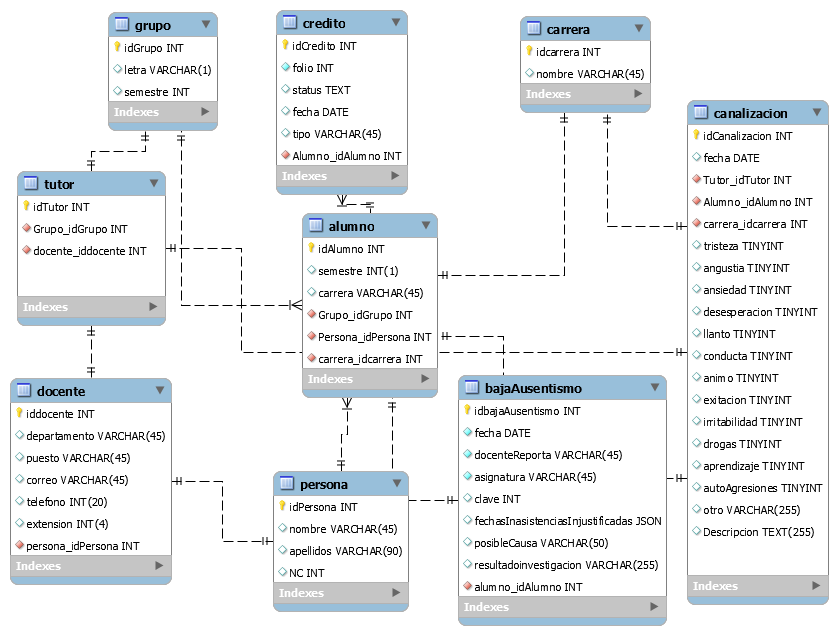
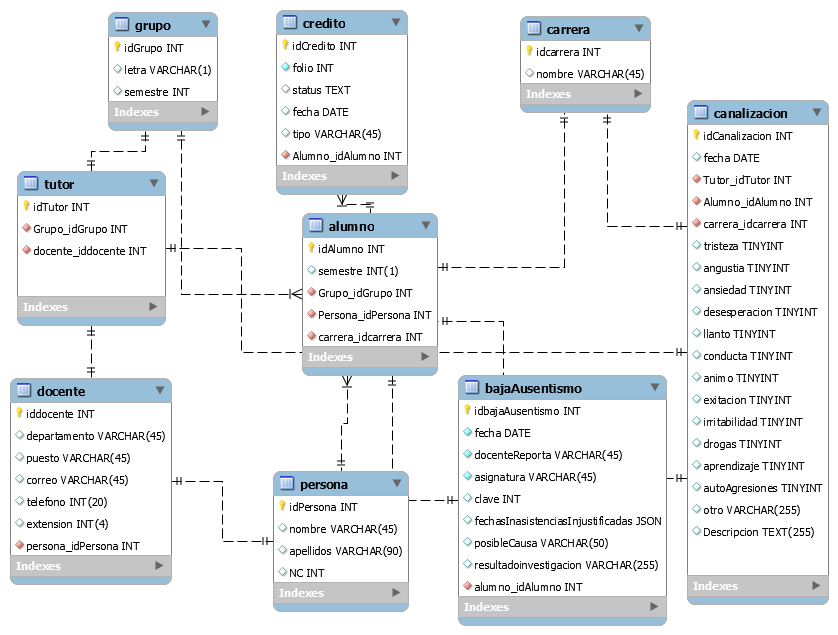
Se volvió a arreglar redundancia en BD

Changed region(s): [[0.3413, 0.4488, 0.5585, 0.6583], [0.5274, 0.4189, 0.5585, 0.4488]]

diff --git a/src/main/java/VO_Y_DAO/VO/AlumnoVO.java b/src/main/java/VO_Y_DAO/VO/AlumnoVO.java
@@ -3,7 +3,6 @@ package VO_Y_DAO.VO;
 public class AlumnoVO {
     private int idAlumno;
     private int semestre;
-    private String carrera;
     private int Grupo_id_grupo;
     private int Persona_idPersona;
     private int carrera_idcarrera;
@@ -11,10 +10,9 @@ public class AlumnoVO {
     public AlumnoVO() {
     }
 
-    public AlumnoVO(int idAlumno, int semestre, String carrera, int Grupo_id_grupo, int Persona_idPersona, int carrera_idcarrera) {
+    public AlumnoVO(int idAlumno, int semestre, int Grupo_id_grupo, int Persona_idPersona, int carrera_idcarrera) {
         this.idAlumno = idAlumno;
         this.semestre = semestre;
-        this.carrera = carrera;
         this.Grupo_id_grupo = Grupo_id_grupo;
         this.Persona_idPersona = Persona_idPersona;
         this.carrera_idcarrera = carrera_idcarrera;
@@ -34,14 +32,6 @@ public class AlumnoVO {
 
     public void setSemestre(int semestre) {
         this.semestre = semestre;
-    }
-
-    public String getCarrera() {
-        return carrera;
-    }
-
-    public void setCarrera(String carrera) {
-        this.carrera = carrera;
     }
 
     public int getGrupo_id_grupo() {
@@ -70,8 +60,7 @@ public class AlumnoVO {
 
     @Override
     public String toString() {
-        return "AlumnoVO{" + "idAlumno=" + idAlumno + ", semestre=" + semestre + ", carrera=" + carrera + ", Grupo_id_grupo=" + Grupo_id_grupo + ", Persona_idPersona=" + Persona_idPersona + ", carrera_idcarrera=" + carrera_idcarrera + '}';
+        return "AlumnoVO{" + "idAlumno=" + idAlumno + ", semestre=" + semestre + ", Grupo_id_grupo=" + Grupo_id_grupo + ", Persona_idPersona=" + Persona_idPersona + ", carrera_idcarrera=" + carrera_idcarrera + '}';
     }
-    
     
 }
